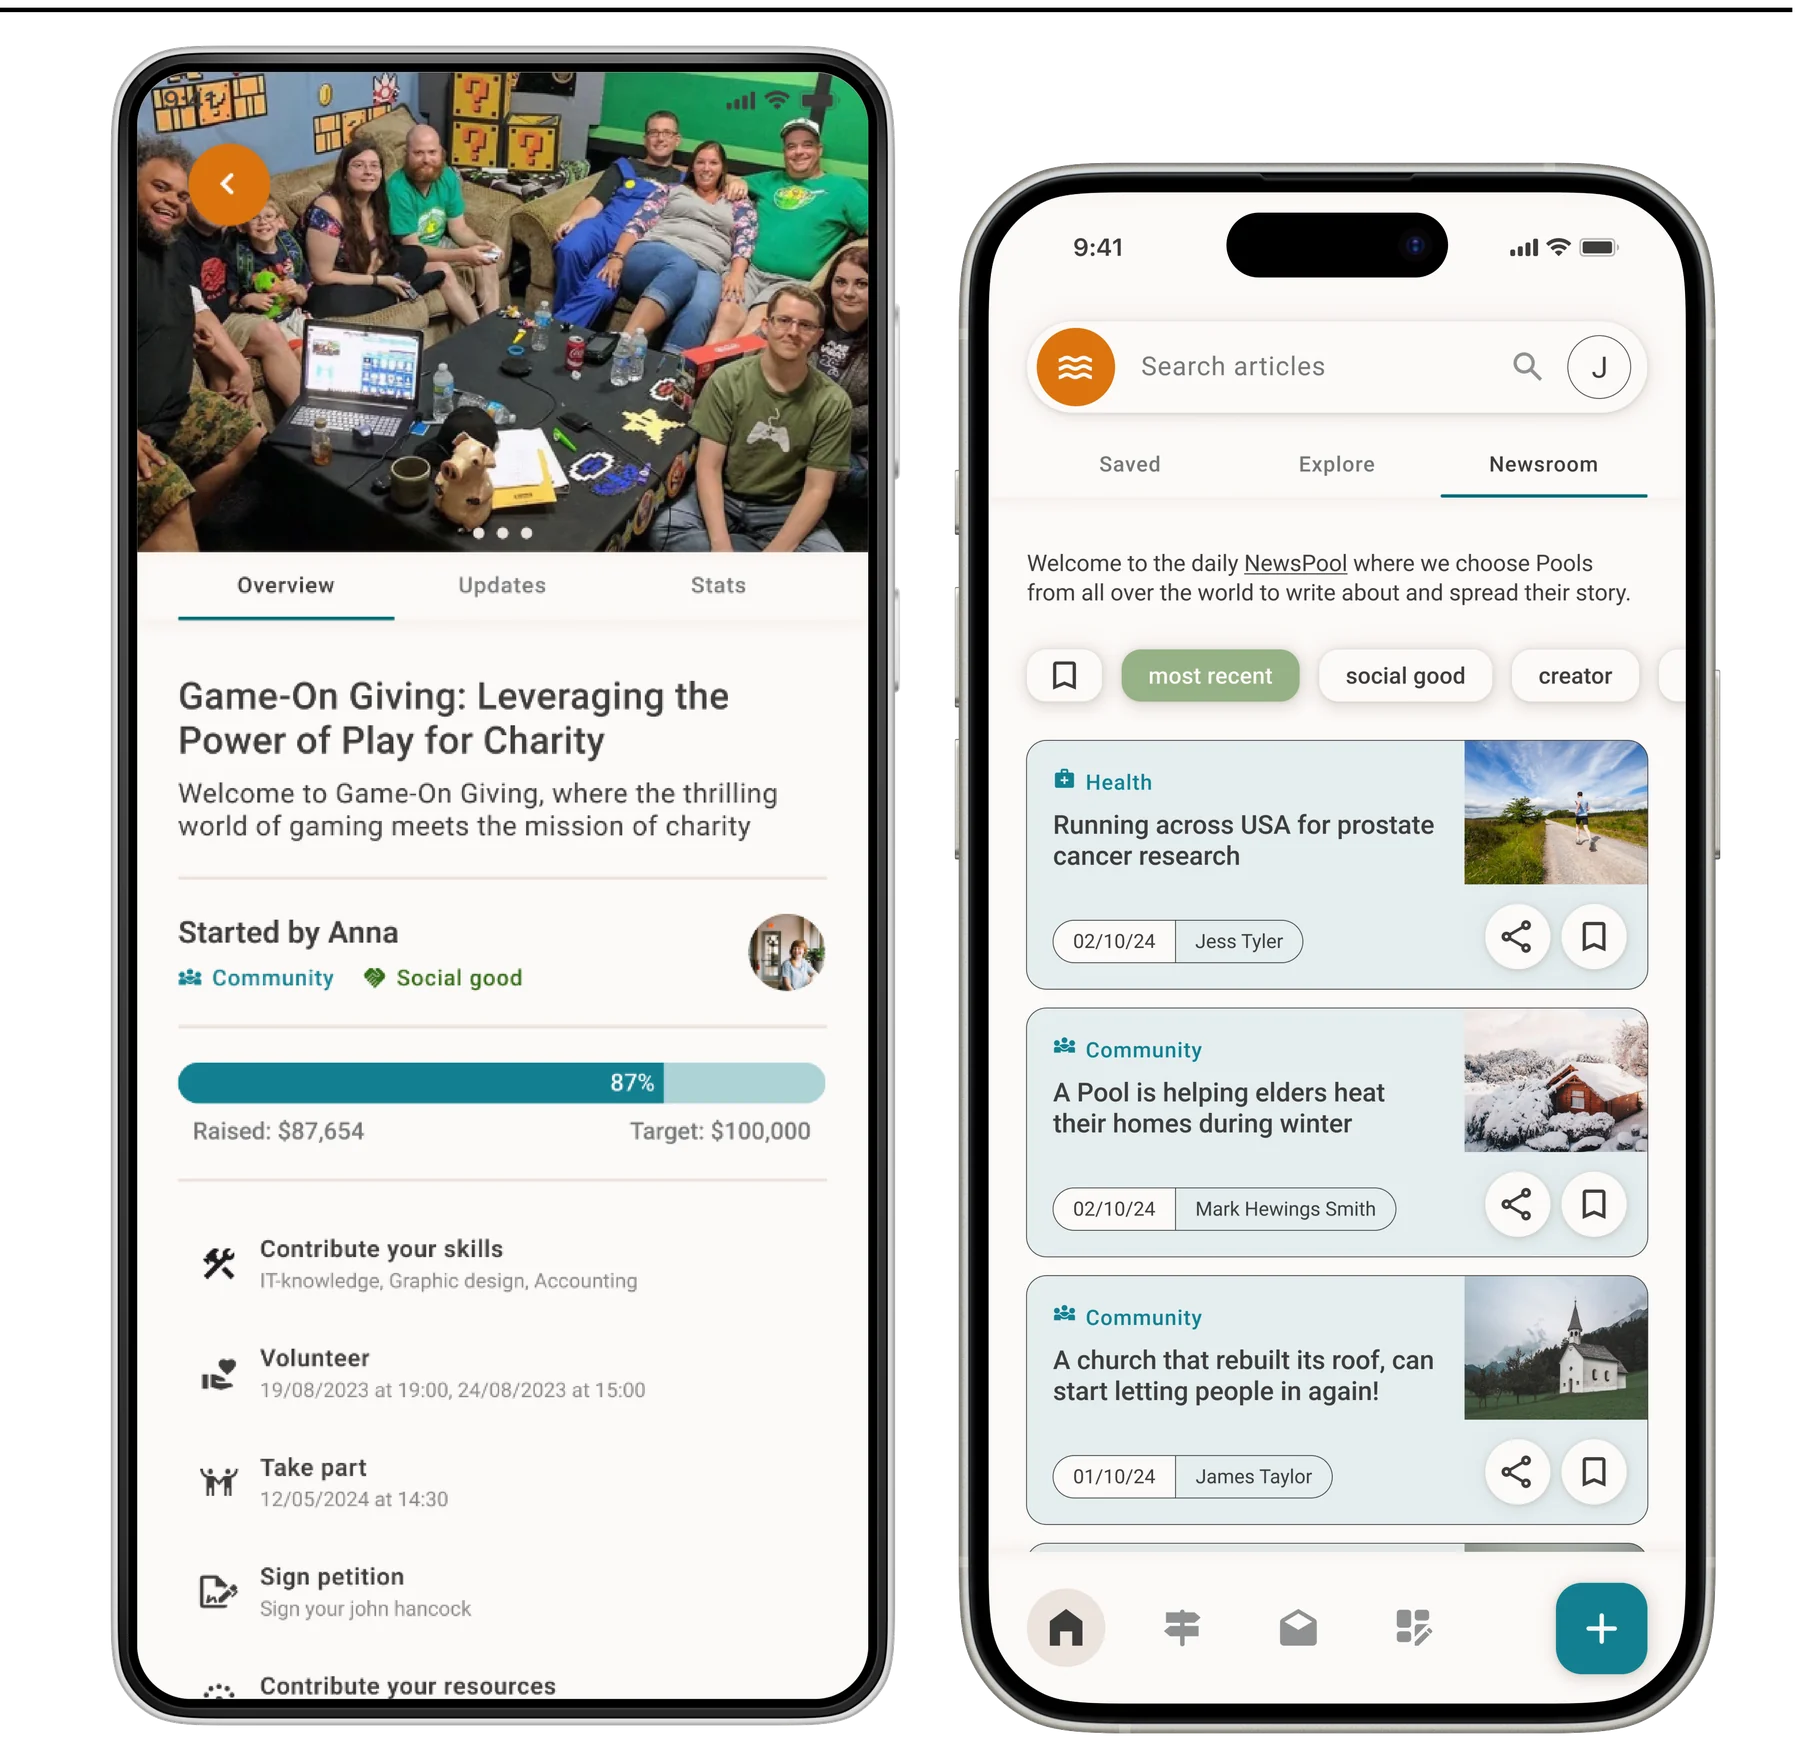
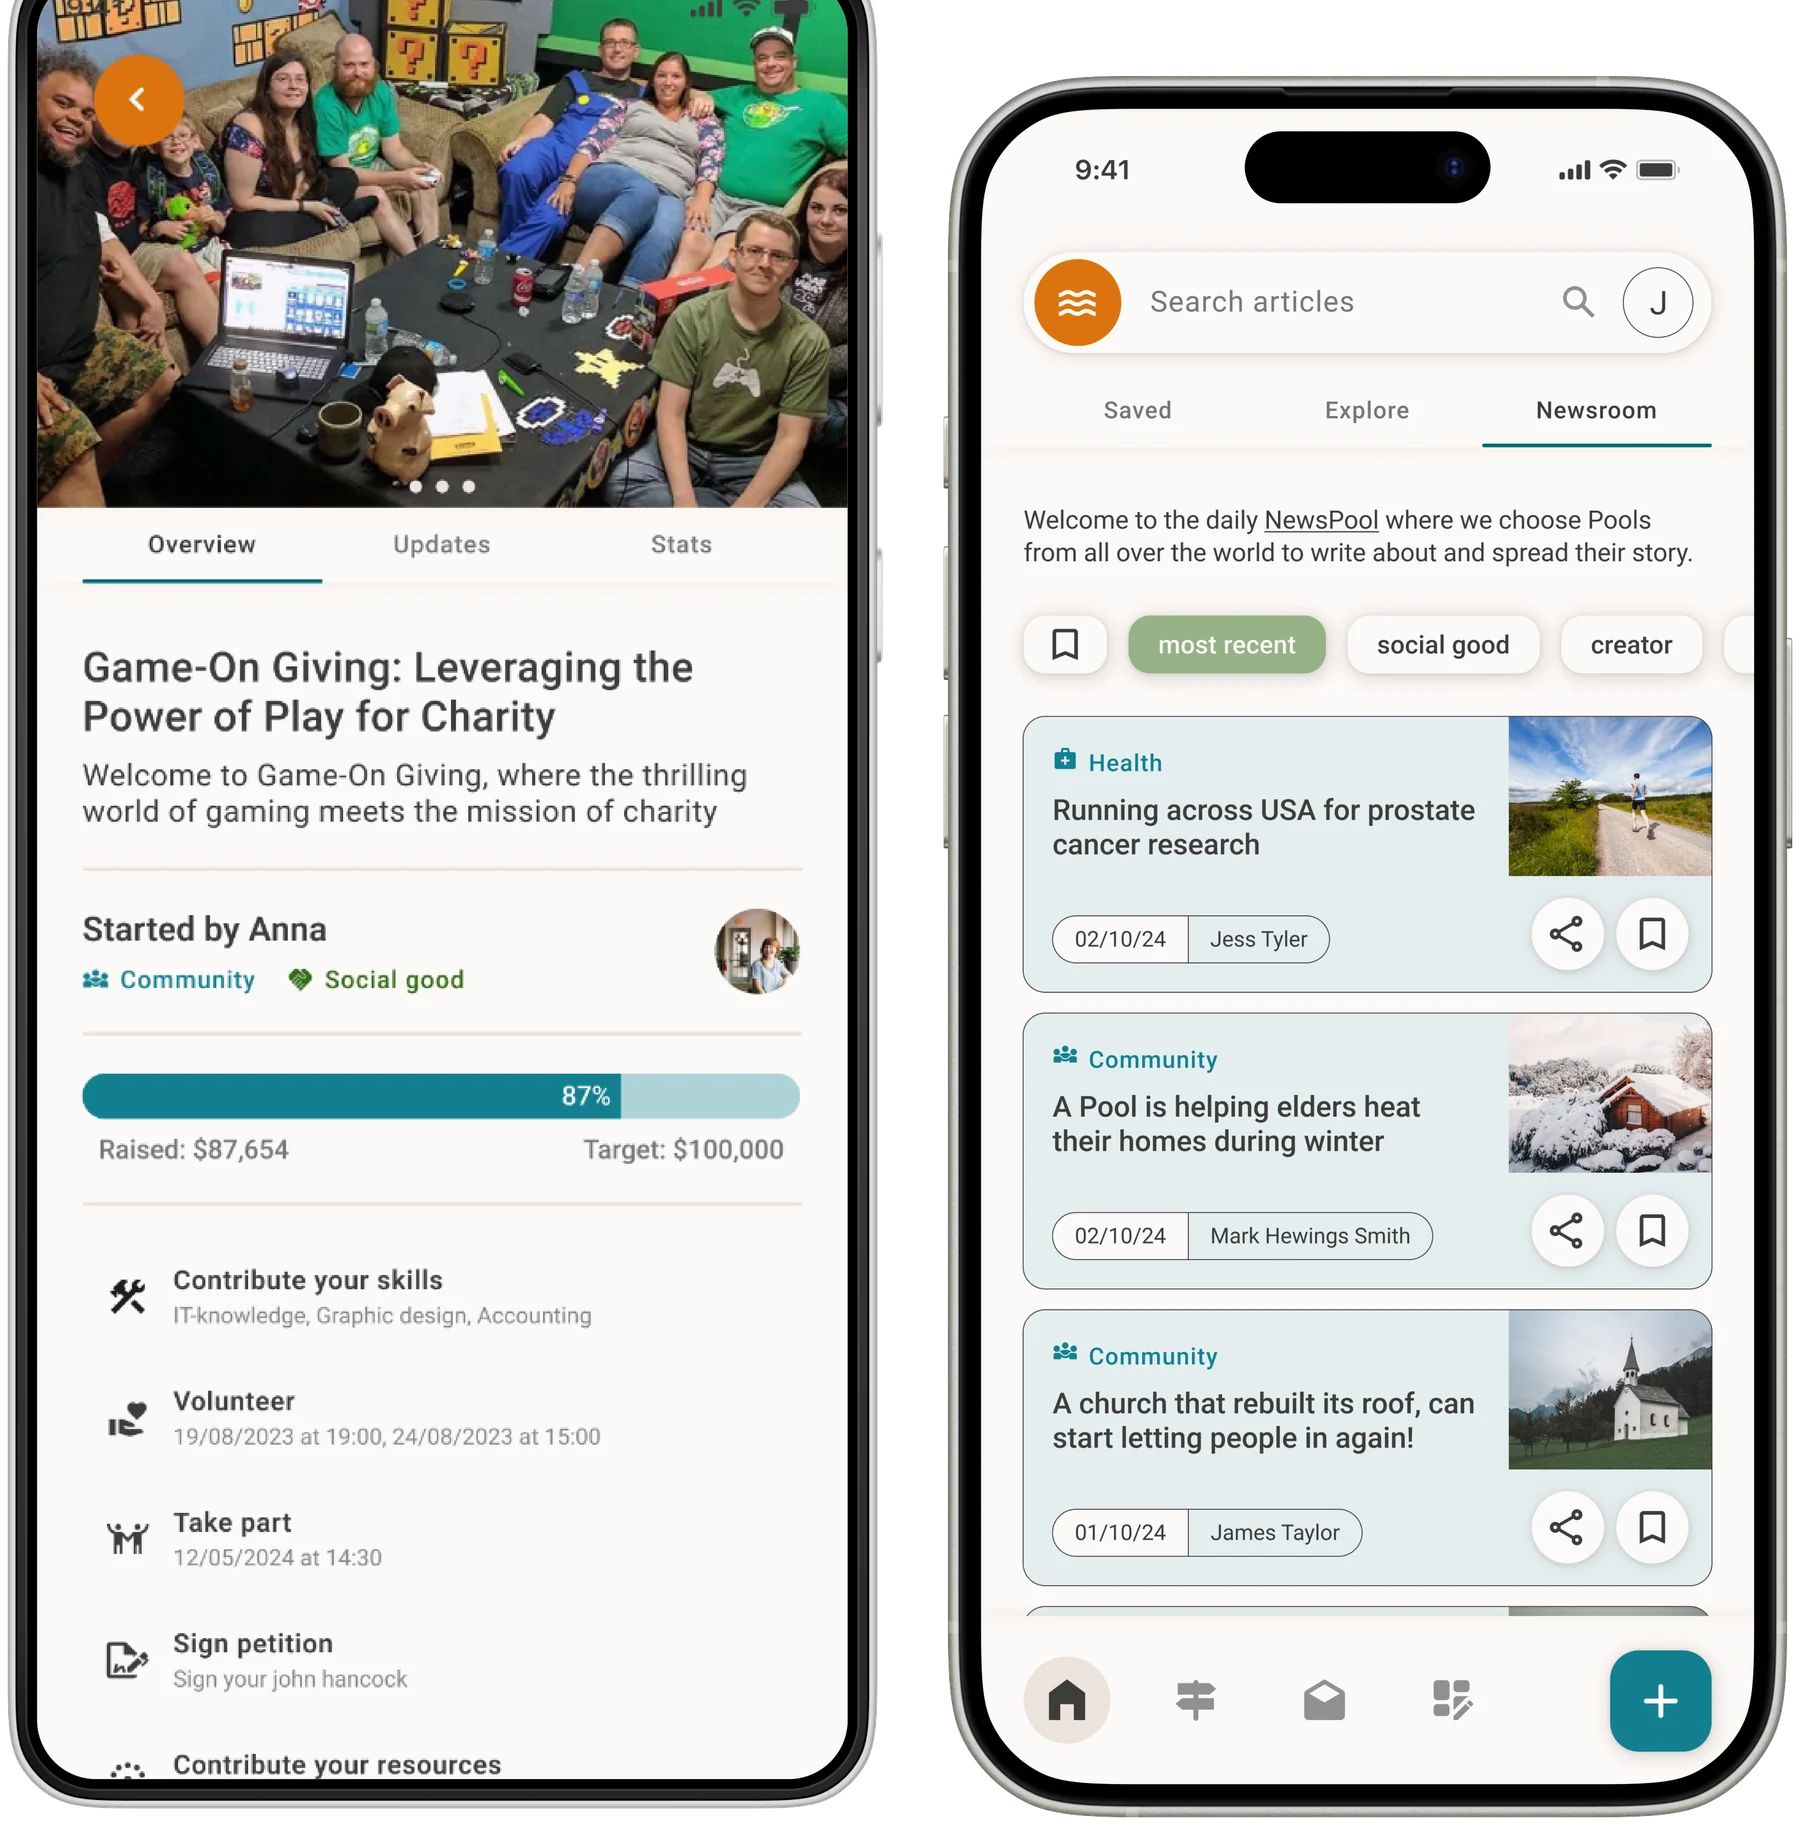
Fix mockup crops: remove stray slide-divider line at top of phones
Re-extracted all 6 app mockups at 400dpi with a higher top crop bound so the
auto-trim snaps to the phone (no more glitchy black line above the phones,
incl. the rotated back phone in the hero). Updated hero image dimensions.

diff --git a/index.html b/index.html
@@ -55,10 +55,10 @@
     <div class="hero__stage">
       <div class="hero__halo"></div>
       <div class="hero__phone hero__phone--back">
-        <img src="assets/app/pool-page.webp" alt="" width="1000" height="2077">
+        <img src="assets/app/pool-page.webp" alt="" width="1000" height="2243">
       </div>
       <div class="hero__phone hero__phone--front">
-        <img src="assets/app/hero-explore.webp" alt="The Poola app showing a feed of community Pools to explore" width="1000" height="2545">
+        <img src="assets/app/hero-explore.webp" alt="The Poola app showing a feed of community Pools to explore" width="1000" height="2901">
       </div>
       <div class="hero__chip hero__chip--1"><i class="fa-solid fa-bolt" style="color:var(--orange)"></i> People Power</div>
       <div class="hero__chip hero__chip--2">
